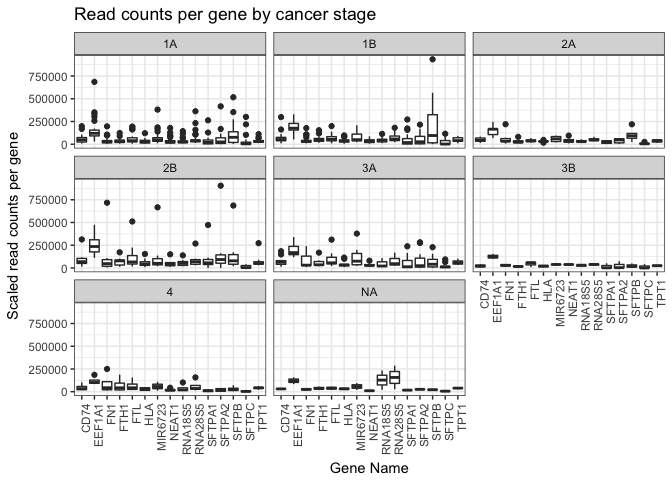
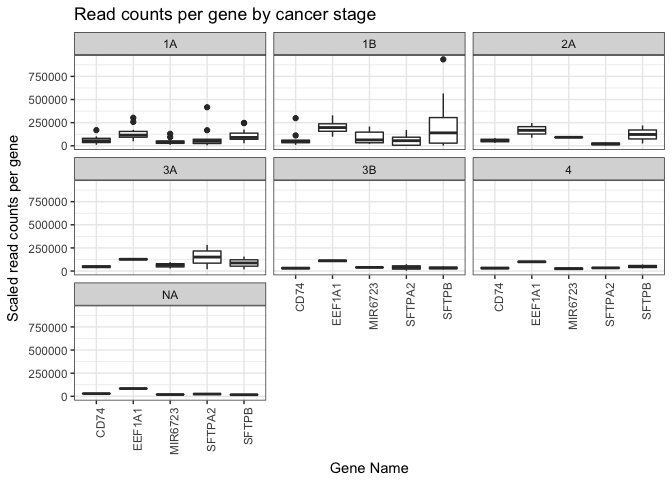
Add Figures

diff --git a/Analysis_Report_02_RNASeq.md b/Analysis_Report_02_RNASeq.md
@@ -1,14 +1,16 @@
-Analysis Report 2: Your Title Here
+Analysis Report 2: Understanding Genetic Expression within Female Lung Cancer Patients
 ================
-Don Francisco
-November 10, 2017
-
-*Overall, a single-spaced page is about 500 words. So if the guidelines say half of a page, think about writing around 250 words. You can use the wordcountaddin in RStudio to track your progress.*
+Katelyn Kukar
+November 15, 2017
 
 Introduction
 ============
 
-Add about 1 page here. Must cite at least 5 peer reviewed articles.
+Genes encode the proteins which dictate cellular functions within organisms. Each step in the flow of information from DNA to RNA to protein provides the cell with integral information that works to regulate functionality by adjusting the amount and type of proteins manufactured. The functionality of genes has been found to be unique among individual samples, with one study stating gene expression levels were variable based on the “underlying genetics of the \[samples\] they were collected from” (1). Gene expression also gives essential information regarding cellular responses during diseased states and the communication of these genes to the cells to increase organismal immunity. Immune responses are heighted by a combination of genes when the cell is under distress, and understanding the unique integration of genes in molecular pathways can thoroughly improve the efficacy of combination treatments (2). By profiling the expression of genes based on these genetically inherited differences, disease treatments can be crafted on an individual, patient basis.
+
+Studies behind benign and malignant tumor formation are of increased interest for gene therapy studies, since they offer a control mechanism for the up and down regulation of essential genes under normal or uncontrolled cellular growth conditions. “Clients with very advanced cancers refractory to conventional treatment indicate that \[gene therapy\] can specifically mediate tumor regression with low toxicity” (3). Therefore, understanding how the organism responds to the inheritance of a single functionally defective gene through the regulation of defense genes is imperative to stopping tumor growth in patients prior to the removal of the defective gene through vector therapy (3).
+
+Lung cancer has traditionally been associated with smoke inhalation from carcinogenic substances which activate a downstream pathway to accelerate the development of cancer (5). Lung cancer is specifically caused by epidermal growth factor receptor genes, a receptor tyrosine kinase that can be modulated through inhibition with EGFR synthetic inhibition therapy (getfitnib) (4). However, these methods are not conducive to long term treatments, due to the sensitivity predictions and high mutation rates of cancerous cells (4). Within this study, we evaluate the representative genes discovered within smoking and non-smoking female patient tumors and their associations with the human body, specifically EGFR. We predict that...HYPOTHESIS
 
 Methods
 =======
@@ -28,18 +30,25 @@ Results
 
 In addition to a minimum of 4-5 figures/tables (and associated captions), you should include sufficient text in this section to describe what your findings were. Remember that in the results section you just describe what you found, but you don't interpret it - that happens in the discussion.
 
-Histogram of Age
-
 ``` r
 female_data <- subset(final_table, gender == "female")
 
-hist(female_data$age_at_diagnosis,
-     main = "Figure 2. Age Diagnosis",
-     xlab = "Age of Particpant",
-     ylab = "Number of Participants")
+#make a table with the number of females at each stage in treatment, fill by smoking status (never previously current)
+
+female_data %>%
+  filter(genename == "A1CF") %>%
+  with(table(cancer_stage, smoking_status)) %>%
+  kable(rownames("Smoking Status"))
 ```
 
-![](Analysis_Report_02_RNASeq_files/figure-markdown_github-ascii_identifiers/unnamed-chunk-1-1.png)
+|     |  current|  never|  previously|
+|-----|--------:|------:|-----------:|
+| 1A  |        0|     15|           1|
+| 1B  |        0|      9|           1|
+| 2A  |        0|      2|           0|
+| 3A  |        1|      0|           1|
+| 3B  |        0|      2|           0|
+| 4   |        0|      2|           0|
 
 | genename |  mean\_count|
 |:---------|------------:|
@@ -48,29 +57,41 @@ hist(female_data$age_at_diagnosis,
 | SFTPA2   |     66520.77|
 | CD74     |     58994.05|
 | MIR6723  |     58916.57|
-| RNA28S5  |     58079.55|
-| FTL      |     51200.27|
-| SFTPA1   |     50997.97|
-| TPT1     |     40372.54|
-| FN1      |     37823.53|
-| RNA18S5  |     37644.20|
-| FTH1     |     37047.05|
-| SFTPC    |     35673.21|
-| HLA      |     33688.34|
-| NEAT1    |     31635.98|
 
-**Table 1**: The most highly expressed genes in both genders included *SFTPB* and *EEF1A1*.
+**Table 1**: The most highly expressed genes for females includes *SFTPB* and *EEF1A1*.
 
 ![](Analysis_Report_02_RNASeq_files/figure-markdown_github-ascii_identifiers/make-barplot-of-highly-expressed-genes-1.png)
 
-**Figure 1**: Here we show an example figure caption.
+**Figure 1**: Here we visualize the mean counts of the top five most prevelant genes revealed within the entire sample pool. We visualize *EEF1A1* to be the gene of most interest
 
 ![](Analysis_Report_02_RNASeq_files/figure-markdown_github-ascii_identifiers/make-boxplot-of-highly-expressed-genes-1.png)
 
-**Figure 2**: Here we show another example figure caption.
+**Figure 2**: Here we visualize the gene counts for the top 5 most prevelant genes categorized by cancer stage. We can see *EEF1A1* has the highest count per gene in stages 1A, 2A, 3B, and 4. We see *SFTPB* is the highest in stage 1B, and *SFTPA2* is the highest in stage 3A. *SFTPB* has a boxplot that has a much larger spread in stage 1B than any other spreads seen throughout all stages.
+
+``` r
+female_data %>%
+  filter(genename %in% top_genes) %>%
+  ggplot(aes(x = genename,
+             y = counts_lengthscaledtpm)) +
+    geom_boxplot() +
+    facet_wrap(~smoking_status) +
+    xlab("Gene Name") +
+    ylab("Scaled read counts per gene") +
+    ggtitle("Read counts per gene by smoking status") +
+    theme_bw() + # simplifies theme
+    theme(axis.text.x = # rotates x axis labels vertically
+            element_text(angle = 90,
+                         hjust = 1))
+```
+
+![](Analysis_Report_02_RNASeq_files/figure-markdown_github-ascii_identifiers/read%20counts%20per%20gene%20by%20smoking%20status-1.png)
+
+**Figure 3**: Here we visualize the gene counts for the top 5 most prevelant genes categorized by smoking status. We can see *EEF1A1* has the largest statistical spread in patients that have never smoked, while we see *SFTPA2* has the largest spread in previously smoking pateints. *SFTPB* has a noticible spread in both never and previously smoking patients, but more outliers are seen in never smoking patients. Currently smooking patients have expression in *EEF1A1* and *MIR6723*.
 
 Discussion
 ==========
+
+Look in OMIM under NCBI
 
 Add around 1-2 pages interpreting your results and considering future directions one might take in analyzing these data.
 
